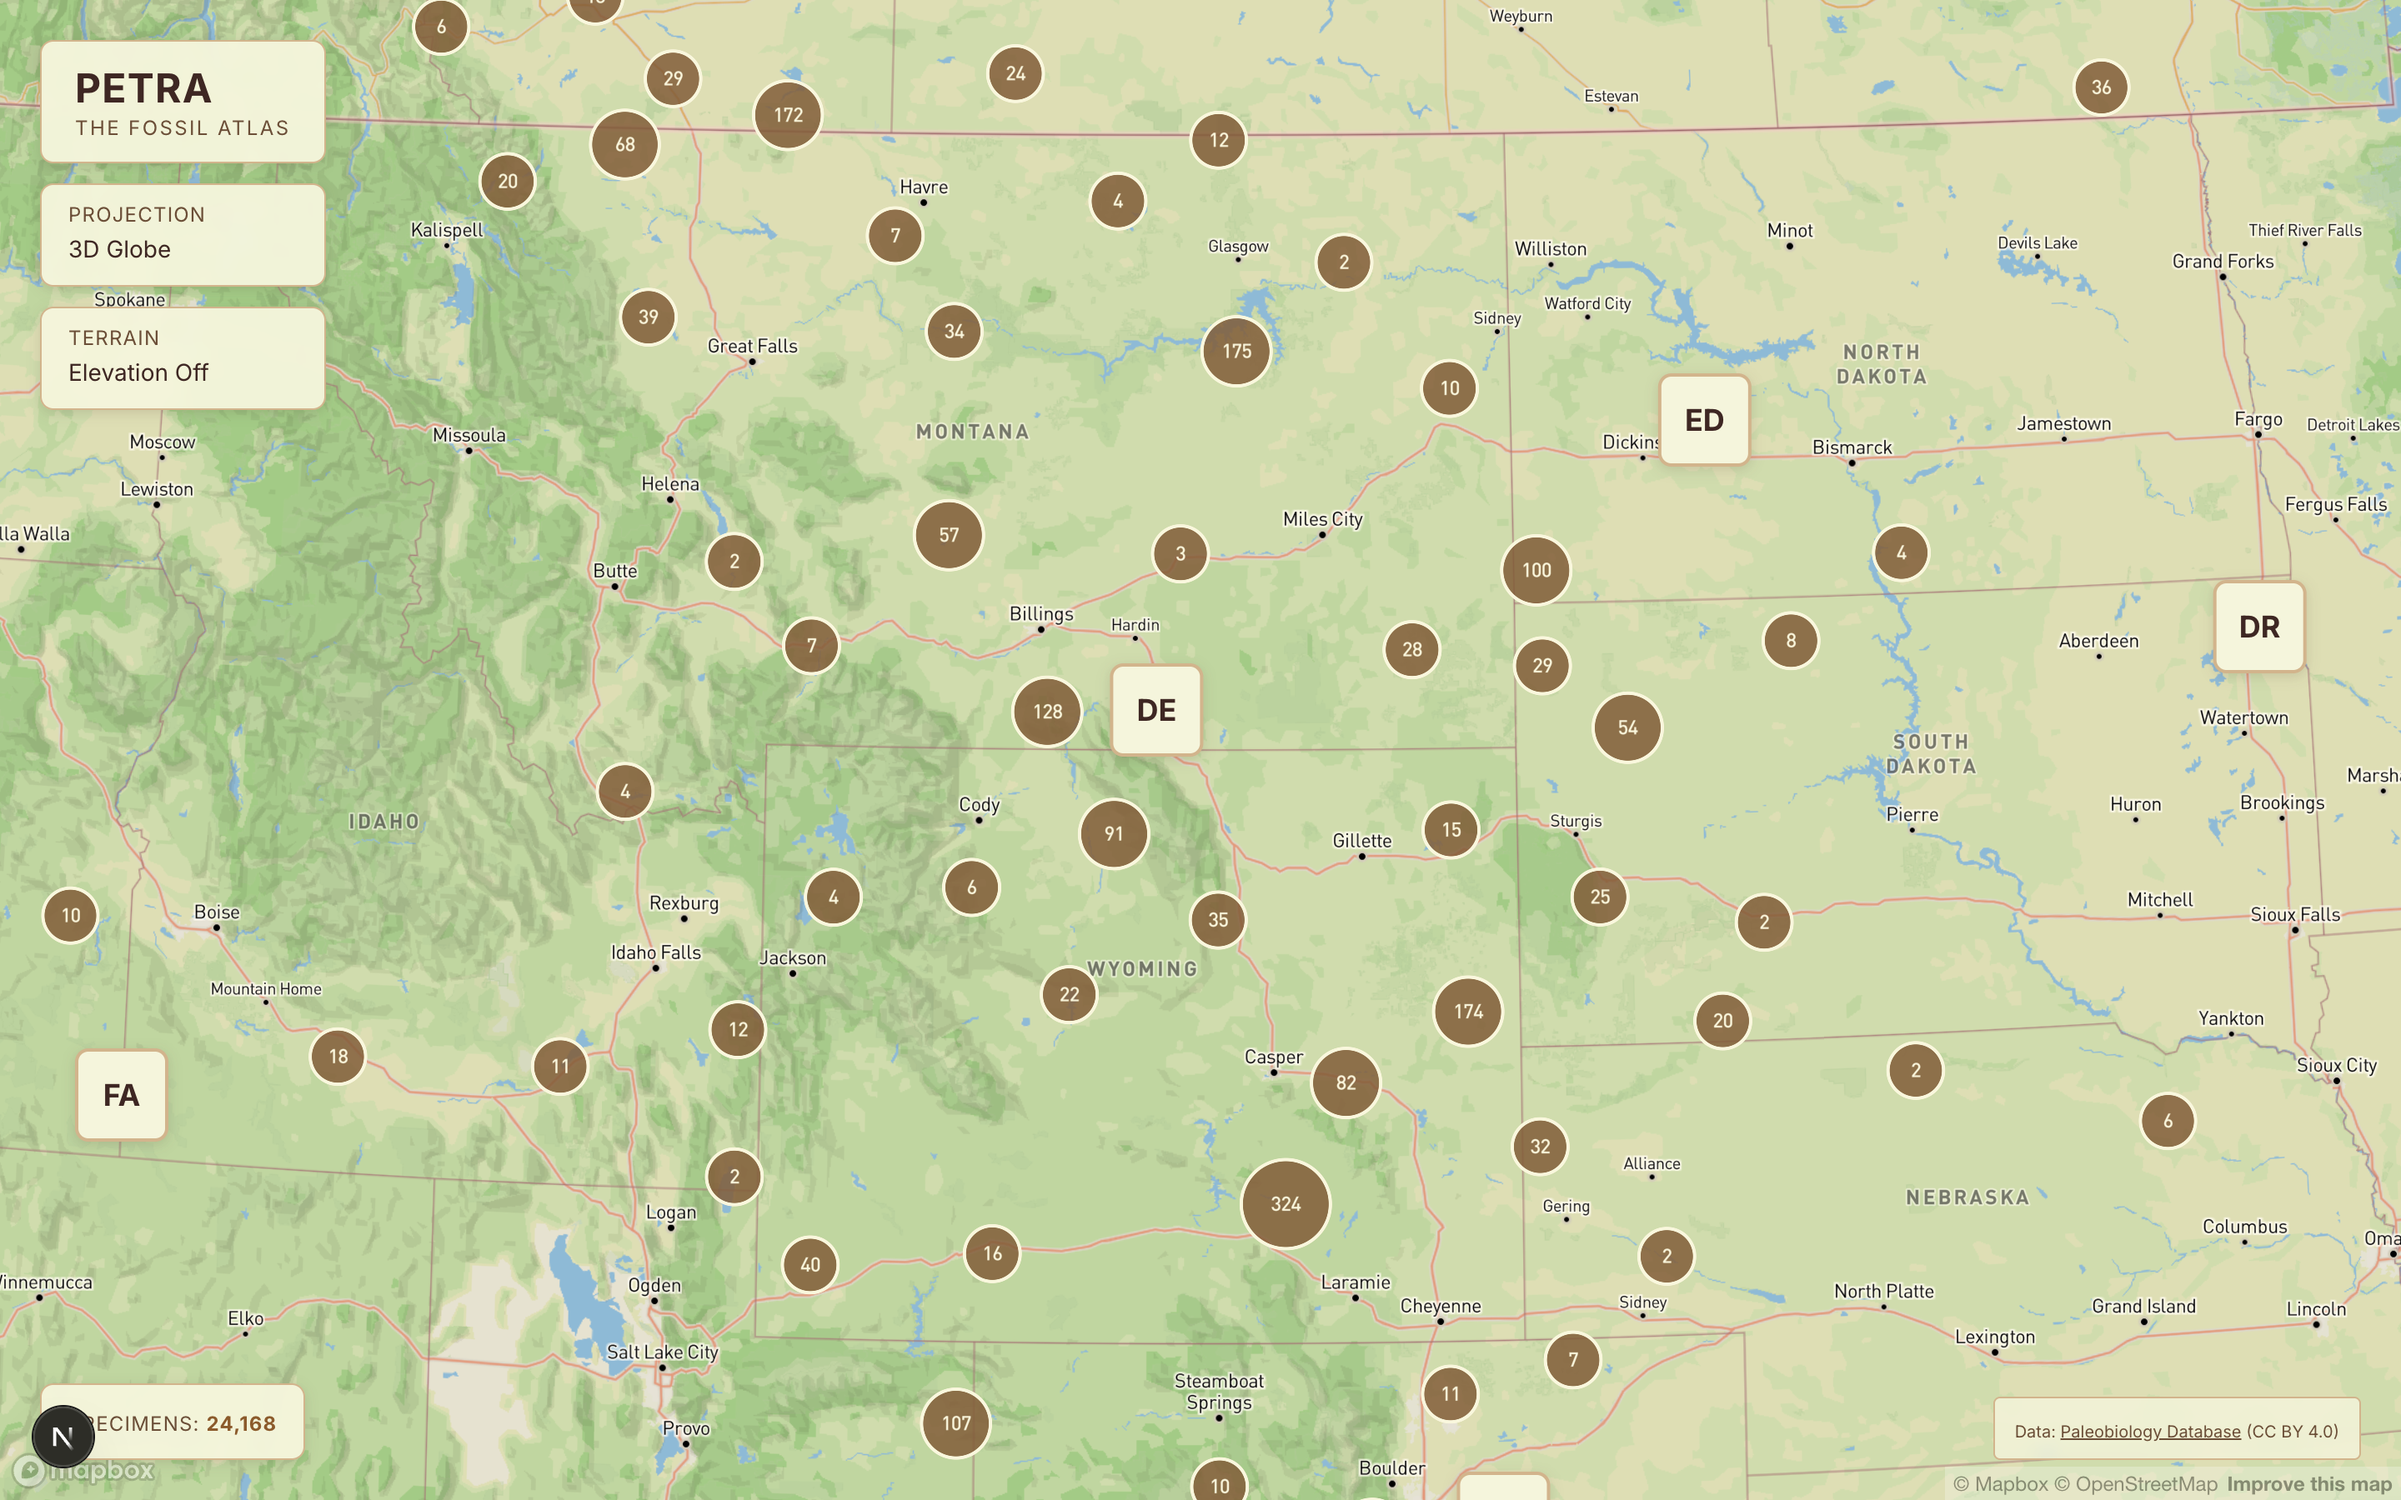
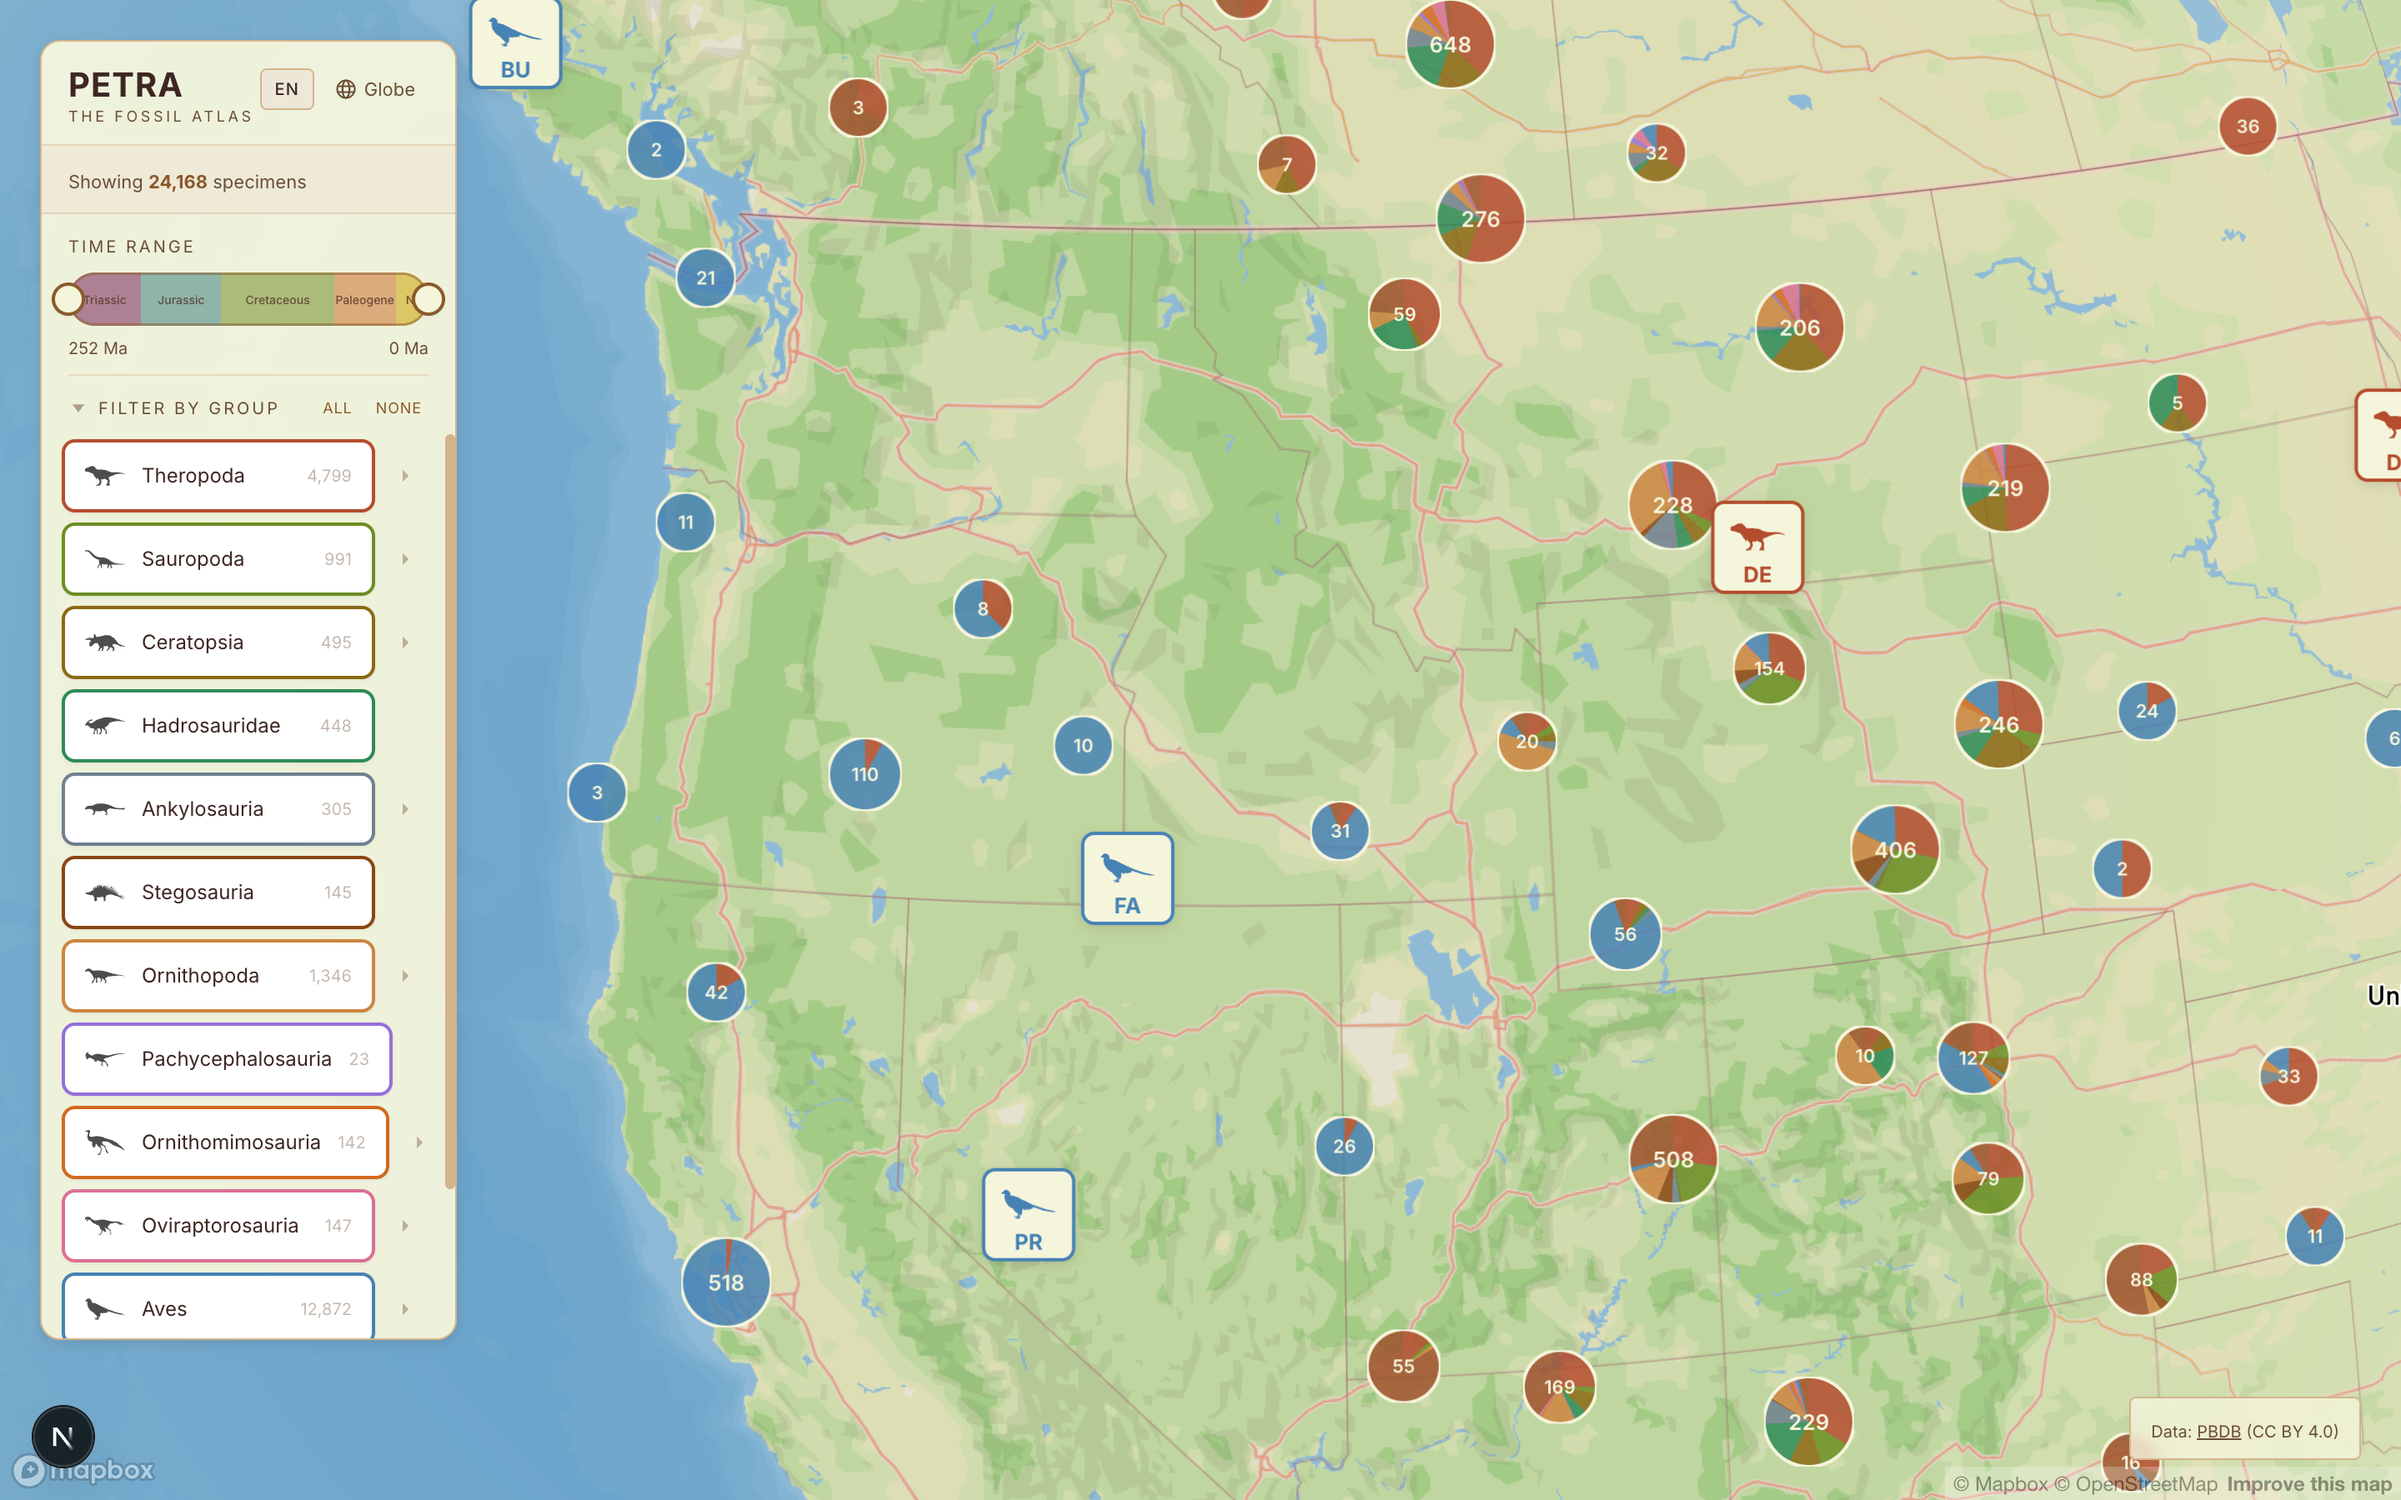
Update README and screenshots for current features
- New screenshots: globe overview, fossil cards, excavation report, Chinese UI
- Updated README with time filter, i18n, and all current features
- Automated screenshot script using Playwright + system Chrome

diff --git a/README.md b/README.md
@@ -1,24 +1,35 @@
-# PETRA — The Fossil Atlas
+# PETRA — The Fossil Atlas 🦕
 
-An interactive 3D globe that visualizes ~24,000 dinosaur fossil discoveries worldwide, powered by real data from the [Paleobiology Database](https://paleobiodb.org/).
+An interactive 3D globe visualizing **~24,000 dinosaur fossil discoveries** worldwide, with full **Chinese/English bilingual support**. Powered by real data from the [Paleobiology Database](https://paleobiodb.org/).
 
 ![Globe Overview](docs/screenshots/globe-overview.png)
 
 ## Features
 
-**3D Globe with Clustering** — Fossils are grouped into clusters at low zoom levels, showing specimen counts across continents. Zoom in to explore individual discoveries.
+### 3D Globe with Clustering
+Fossils are grouped into pie-chart clusters at low zoom, color-coded by taxonomic group. Zoom in to explore individual fossil cards across continents.
 
 ![Fossil Cards](docs/screenshots/fossil-cards.png)
 
-**Excavation Reports** — Click any fossil to open a detailed side panel with taxonomy, geological period, formation, location, and a direct link to the PBDB record.
+### Excavation Reports
+Click any fossil to open a detailed report with Wikipedia images, taxonomy, geological period, formation, and a direct link to the PBDB record.
 
 ![Excavation Report](docs/screenshots/excavation-report.png)
 
-**Additional Controls**
+### Geological Time Filter
+Dual-handle time range slider spanning the Triassic (252 Ma) to present, with ICS standard period colors. Filter fossils by geological age in real time.
+
+### Bilingual Support (EN / 中文)
+Auto-detects browser language with manual toggle. Includes 586 Chinese dinosaur genus names, 451 family names, and 140+ geological stage translations — all sourced from Wikipedia and reviewed for accuracy.
+
+![Chinese Version](docs/screenshots/globe-zh.png)
+
+### Additional Features
 - Toggle between 3D Globe and 2D Mercator projections
-- Toggle terrain elevation visualization
-- Color-coded geological period badges (Maastrichtian, Albian, Kimmeridgian, etc.)
+- Filter by 13 taxonomic groups with expandable sub-family breakdown
+- ICS-standard color-coded geological period badges
 - Parchment-themed archaeological aesthetic
+- Fully responsive mobile layout
 
 ## Tech Stack
 
@@ -43,7 +54,7 @@ npm run dev
 
 ## Data
 
-Fossil data is sourced from the [Paleobiology Database](https://paleobiodb.org/) (CC BY 4.0). The dataset includes all Dinosauria occurrences with coordinates, stratigraphy, and taxonomy, classified into groups: theropods, sauropods, ceratopsians, hadrosaurs, ankylosaurs, stegosaurs, ornithopods, and more.
+Fossil data is sourced from the [Paleobiology Database](https://paleobiodb.org/) (CC BY 4.0). The dataset includes all Dinosauria occurrences with coordinates, stratigraphy, and taxonomy, classified into 13 groups: theropods, sauropods, ceratopsians, hadrosaurs, ankylosaurs, stegosaurs, ornithopods, pachycephalosaurs, ornithomimosaurs, oviraptorosaurs, birds, trace fossils, and unclassified.
 
 To refresh the data:
 
